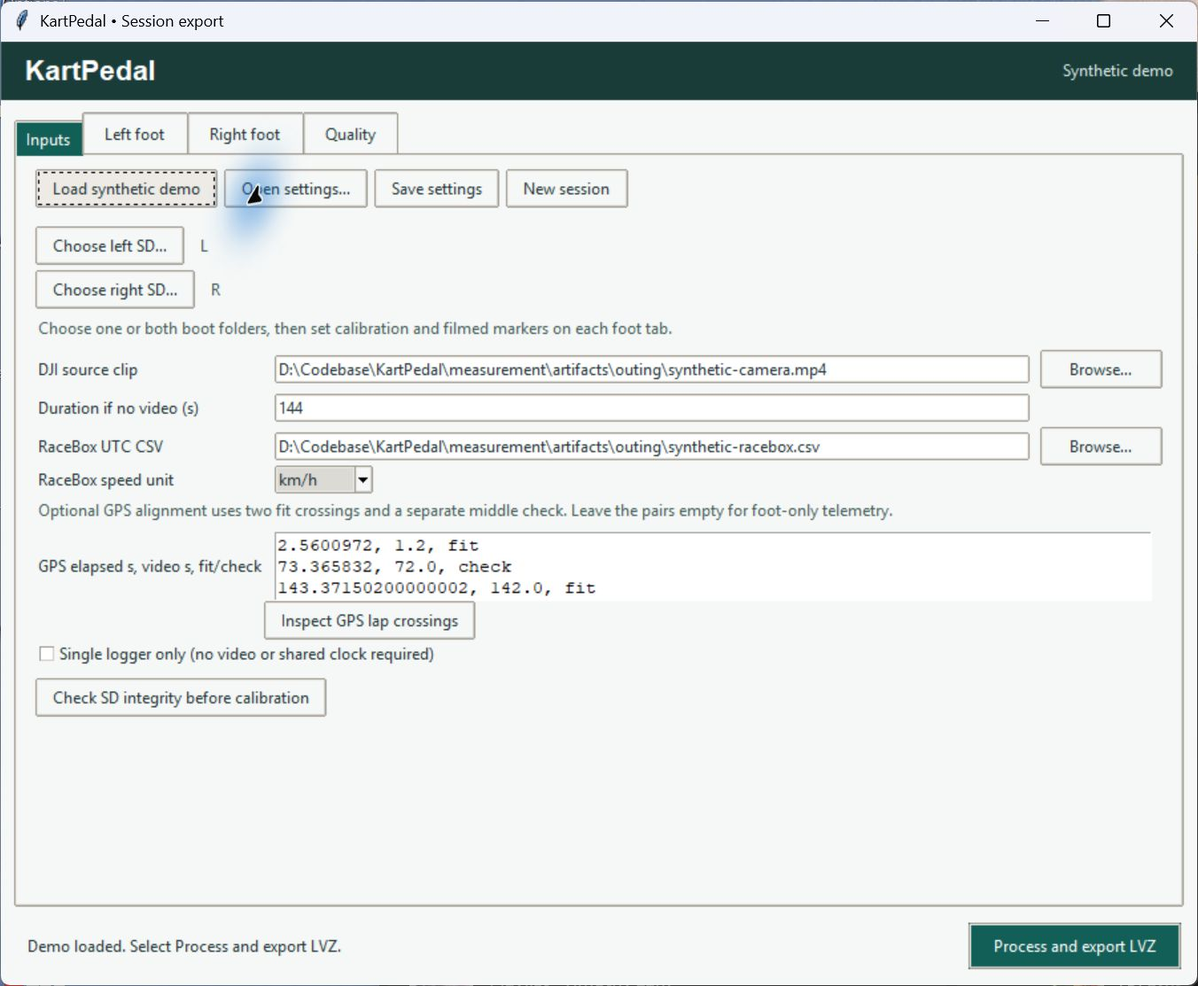
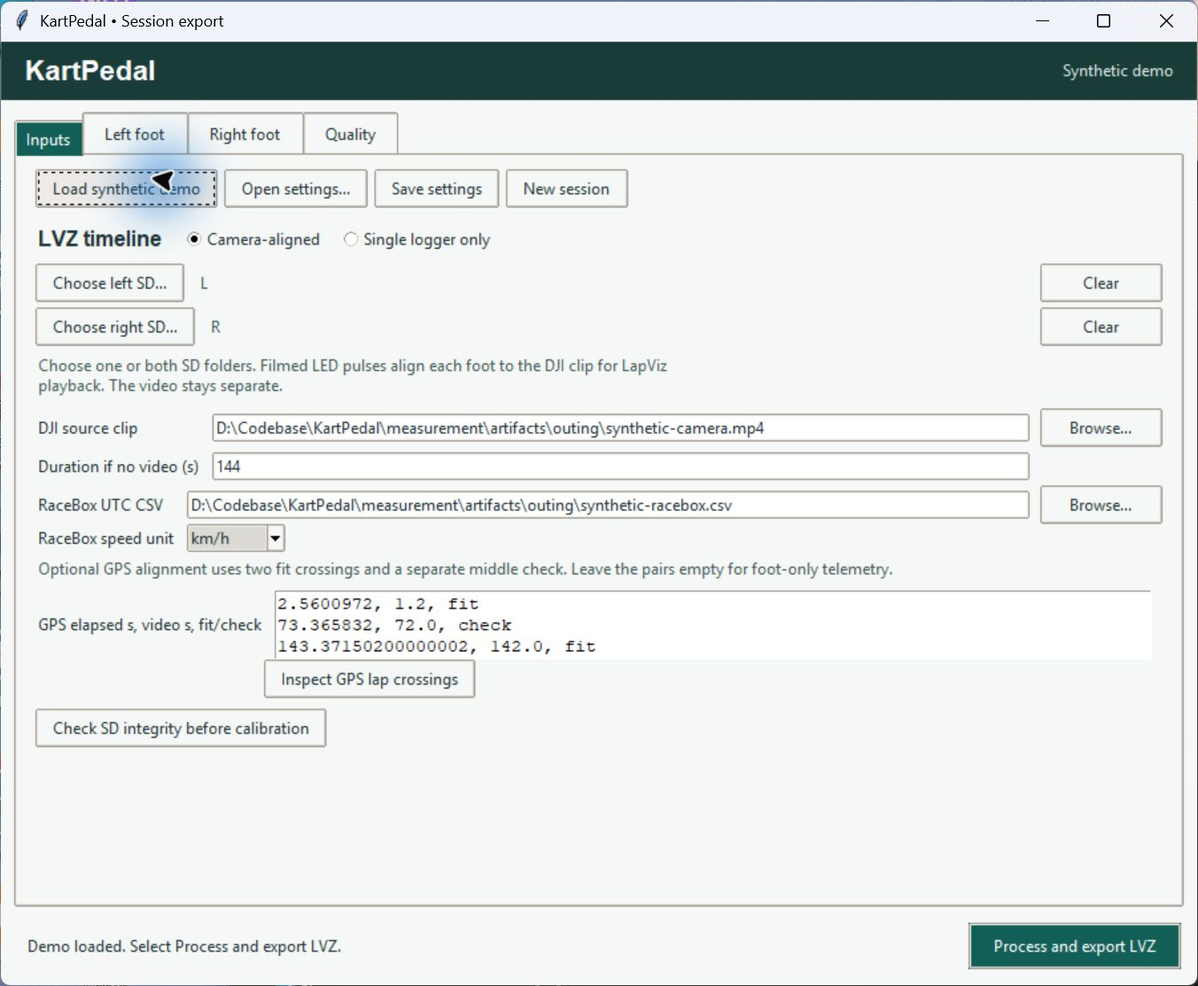
Verify interrupted SD recordings and clarify logger-only export

Changed region(s): [[0.0311, 0.1222, 0.963, 0.7637], [0.3107, 0.2138, 0.4038, 0.2749], [0.9941, 0.0916, 1.0, 0.1527]]

diff --git a/measurement/app.py b/measurement/app.py
@@ -98,26 +98,34 @@ class Leg:
         entry(p,'Saved profile (optional)',self.profile,4)
         ttk.Button(p,text='Choose profile…',command=lambda:choose(self.profile.set,[('Calibration profile','*.json')])).grid(row=4,column=2)
         explain(p,'Enter a neutral hold, then rock shoe and shin together. Mark the press direction within that rocking interval. With a matching saved profile, only fresh neutral times are required.',5)
-        self.markers=tk.Text(p,height=4,width=36)
-        ttk.Label(p,text='Marker ID, video seconds, fit/check').grid(row=6,column=0,sticky='w')
-        self.markers.grid(row=6,column=1,columnspan=2,sticky='ew',padx=8)
-        explain(p,'For manual timing enter one pulse per line, e.g. 1, 2.12, fit. Fit the first and last, and mark a middle pulse as check. For automatic timing select the LED on a frame.',7)
-        ttk.Checkbutton(p,text='Detect filmed pulses',variable=self.auto).grid(row=8,column=0,sticky='w')
-        ttk.Entry(p,textvariable=self.roi).grid(row=8,column=1,sticky='ew',padx=8)
-        ttk.Button(p,text='Select LED on frame…',command=safe(self.pick_roi)).grid(row=8,column=2)
-        entry(p,'Pulse IDs in clip (optional)',self.ids,9)
+        sync=self.sync_panel=ttk.Frame(p);sync.grid(row=6,column=0,columnspan=3,sticky='ew')
+        sync.columnconfigure(1,weight=1)
+        self.markers=tk.Text(sync,height=4,width=36)
+        ttk.Label(sync,text='Marker ID, video seconds, fit/check').grid(row=0,column=0,sticky='w')
+        self.markers.grid(row=0,column=1,columnspan=2,sticky='ew',padx=8)
+        explain(sync,'For manual timing enter one pulse per line, e.g. 1, 2.12, fit. Fit the first and last, and mark a middle pulse as check. For automatic timing select the LED on a frame.',1)
+        ttk.Checkbutton(sync,text='Detect filmed pulses',variable=self.auto).grid(row=2,column=0,sticky='w')
+        ttk.Entry(sync,textvariable=self.roi).grid(row=2,column=1,sticky='ew',padx=8)
+        ttk.Button(sync,text='Select LED on frame…',command=safe(self.pick_roi)).grid(row=2,column=2)
+        entry(sync,'Pulse IDs in clip (optional)',self.ids,3)
         entry(p,'Onset °, return °, dwell s',self.thresholds,10)
     def import_folder(self,folder):
         p=Path(folder)
         if not (p/'meta.json').exists():raise ValueError('Open the boot/session folder containing meta.json under the device folder on the SD card.')
         m=json.loads((p/'meta.json').read_text())
         if m['side']!=self.side:raise ValueError(f"This is the {m['side']} logger. Select its matching tab.")
-        edges=logged_edges(p)
+        # Preview is optional. The integrity check must remain available for a torn card.
+        try:
+            edges=logged_edges(p)
+            marker_note='LED rises in logger seconds: '+', '.join(f'{i} = {t:.2f}' for i,t in edges[:12]) if edges else 'No LED rises found.'
+        except (OSError,ValueError):
+            edges=[]
+            marker_note='Cannot read the LED events. Use Check SD integrity before calibration.'
         if self.app.synthetic and not m['device_id'].startswith('synthetic-'):
             self.app.assign({})
         elif self.folder.get() and Path(self.folder.get()).resolve()!=p.resolve():
             self.load({})
-        self.folder.set(str(p));self.note.set(m['device_id']+'  •  LED rise times on logger  '+', '.join(f'{i} = {t:.2f} s' for i,t in edges[:12]))
+        self.folder.set(str(p));self.note.set(m['device_id']+'  •  '+marker_note)
         self.app.clear_results()
         if not m['device_id'].startswith('synthetic-'):
             self.app.synthetic=False;self.app.context.set('Recording session')
@@ -158,7 +166,10 @@ class Leg:
         v=dict(directory=self.folder.get(),windows=windows,window_clock=self.frame.get(),
                markers={},event_thresholds=numbers(self.thresholds.get()))
         if self.profile.get():v['profile']=self.profile.get()
-        if device_only:return v
+        if device_only:
+            if self.frame.get()!='Logger seconds':
+                raise ValueError(f'{self.side} foot: choose Logger seconds and enter intervals measured on that logger.')
+            return v
         if self.auto.get():
             v.update(auto_led=True,led_roi=numbers(self.roi.get()))
             if len(v['led_roi'])!=4:raise ValueError(f'Select the {self.side} LED rectangle')
@@ -228,27 +239,38 @@ class App:
         actions=ttk.Frame(p);actions.grid(row=0,column=0,columnspan=3,sticky='ew',pady=(0,12))
         for name,fn in [('Load synthetic demo',lambda:self.load(HERE/'artifacts/outing/job.json')),('Open settings…',lambda:choose(lambda f:self.load(Path(f)),[('Session settings','*.json')])),('Save settings',self.persist),('New session',lambda:self.assign({}))]:
             ttk.Button(actions,text=name,command=safe(fn)).pack(side='left',padx=(0,5))
-        self.sources={}
+        modes=ttk.Frame(p)
+        modes.grid(row=1,column=0,columnspan=3,sticky='w',pady=(0,5))
+        ttk.Label(modes,text='LVZ timeline',style='Heading.TLabel').pack(side='left',padx=(0,14))
+        for label,mode in [('Camera-aligned',False),('Single logger only',True)]:
+            ttk.Radiobutton(modes,text=label,variable=self.device_only,value=mode).pack(side='left',padx=(0,12))
+        self.sources={};self.remove_source={}
         for index,side in enumerate(('L','R')):
             name='Left' if side=='L' else 'Right'
             row=ttk.Frame(p)
-            row.grid(row=index+1,column=0,columnspan=3,sticky='ew',pady=2)
+            row.grid(row=index+2,column=0,columnspan=3,sticky='ew',pady=2)
             ttk.Button(row,text=f'Choose {name.lower()} SD…',command=safe(lambda s=side:choose(self.legs[s].import_folder,'folder'))).pack(side='left')
             label=ttk.Label(row,text=f'{name} foot · no folder selected',style='Hint.TLabel')
             label.pack(side='left',padx=10);self.sources[side]=label
-        explain(p,'Choose one or both boot folders, then set calibration and filmed markers on each foot tab.',3)
-        inputs=ttk.Frame(p);inputs.grid(row=4,column=0,columnspan=3,sticky='ew')
+            button=ttk.Button(row,text='Clear',state='disabled',command=lambda s=side:self.clear_source(s))
+            button.pack(side='right');self.remove_source[side]=button
+        self.mode_hint=tk.StringVar()
+        ttk.Label(p,textvariable=self.mode_hint,style='Hint.TLabel',wraplength=525).grid(row=4,column=0,columnspan=3,sticky='w',pady=(3,8))
+        inputs=ttk.Frame(p);inputs.grid(row=5,column=0,columnspan=3,sticky='ew')
         inputs.columnconfigure(1,weight=1);p=inputs
-        entry(p,'DJI source clip',self.video,1);ttk.Button(p,text='Browse…',command=lambda:choose(self.video.set,[('Video','*.mp4 *.mov *.mkv')])).grid(row=1,column=2)
-        entry(p,'Duration if no video (s)',self.duration,2)
+        camera=self.camera_inputs=ttk.Frame(p);camera.grid(row=1,column=0,columnspan=3,sticky='ew')
+        camera.columnconfigure(1,weight=1)
+        entry(camera,'DJI source clip',self.video,0);ttk.Button(camera,text='Browse…',command=lambda:choose(self.video.set,[('Video','*.mp4 *.mov *.mkv')])).grid(row=0,column=2)
+        entry(camera,'Duration if no video (s)',self.duration,1)
         entry(p,'RaceBox UTC CSV',self.gps,3);ttk.Button(p,text='Browse…',command=lambda:choose(self.gps.set,[('RaceBox CSV','*.csv')])).grid(row=3,column=2)
         ttk.Label(p,text='RaceBox speed unit').grid(row=4,column=0,sticky='w')
         ttk.Combobox(p,textvariable=self.unit,values=['km/h','mph','m/s'],state='readonly',width=9).grid(row=4,column=1,sticky='w',padx=8)
-        explain(p,'Optional GPS alignment uses two fit crossings and a separate middle check. Leave the pairs empty for foot-only telemetry.',5)
-        ttk.Label(p,text='GPS elapsed s, video s, fit/check').grid(row=6,column=0,sticky='w')
-        self.gpsanchors=tk.Text(p,height=3,width=35);self.gpsanchors.grid(row=6,column=1,columnspan=2,sticky='ew',padx=8)
-        ttk.Button(p,text='Inspect GPS lap crossings',command=safe(self.crossings)).grid(row=7,column=1,sticky='w')
-        ttk.Checkbutton(p,text='Single logger only (no video or shared clock required)',variable=self.device_only).grid(row=9,column=0,columnspan=3,sticky='w')
+        gps=self.crossing_inputs=ttk.Frame(p);gps.grid(row=5,column=0,columnspan=3,sticky='ew')
+        gps.columnconfigure(1,weight=1)
+        explain(gps,'Optional GPS alignment uses two fit crossings and a separate middle check. Leave the pairs empty for foot-only telemetry.',0)
+        ttk.Label(gps,text='GPS elapsed s, video s, fit/check').grid(row=1,column=0,sticky='w')
+        self.gpsanchors=tk.Text(gps,height=3,width=35);self.gpsanchors.grid(row=1,column=1,columnspan=2,sticky='ew',padx=8)
+        ttk.Button(gps,text='Inspect GPS lap crossings',command=safe(self.crossings)).grid(row=2,column=1,sticky='w')
         ttk.Button(p,text='Check SD integrity before calibration',command=safe(self.inspect)).grid(row=10,column=0,columnspan=3,sticky='w',pady=8)
         self.legs={s:Leg(self,s) for s in 'LR'}
         for s,leg in self.legs.items():
@@ -274,11 +296,34 @@ class App:
         self.status=tk.StringVar(value='Load the demo or choose an SD recording.')
         self.status_label=ttk.Label(bottom,textvariable=self.status,wraplength=350)
         self.status_label.pack(side='left',padx=6)
-        self.root.after(80,self.poll)
+        self.device_only.trace_add('write',self.update_mode);self.update_mode()
+        self.poll_timer=self.root.after(80,self.poll)
+        root.bind('<Destroy>',self.cancel_poll,add=True)
+
+    def cancel_poll(self,event):
+        if event.widget==self.root:self.root.after_cancel(self.poll_timer)
+
+    def update_mode(self,*_):
+        logger_only=self.device_only.get()
+        for panel in (self.camera_inputs,self.crossing_inputs,*(leg.sync_panel for leg in self.legs.values())):
+            if logger_only:panel.grid_remove()
+            else:panel.grid()
+        self.mode_hint.set('Choose one SD folder. The LVZ starts at the first logger sample. An optional RaceBox CSV is checked separately.'
+                           if logger_only else 'Choose one or both SD folders. Filmed LED pulses align each foot to the DJI clip for LapViz playback. The video stays separate.')
+        self.clear_results()
+        selected=sum(bool(leg.folder.get()) for leg in self.legs.values())
+        if logger_only and selected>1:self.status.set('Clear one SD selection to export a single foot.')
+        elif selected:self.status.set('Review calibration on the selected foot tabs, then export.')
+        else:self.status.set('Load the demo or choose an SD recording.')
+
+    def clear_source(self,side):
+        self.legs[side].load({})
+        self.clear_results();self.status.set(f'{side} foot removed from this session.')
 
     def source_changed(self,side):
         path=self.legs[side].folder.get()
         self.sources[side].configure(text=Path(path).name if path else 'No folder selected')
+        self.remove_source[side].state(['!disabled' if path else 'disabled'])
 
     def clear_results(self):
         self.last_out=None;self.open_folder.state(['disabled'])
@@ -299,21 +344,26 @@ class App:
             if lap!=last:data.append(f'{dt.isoformat()}    {t:.3f} s    lap {lap}');last=lap
         messagebox.showinfo('RaceBox crossing candidates','Match visible track crossings independently.\n\n'+'\n'.join(data[:30]))
     def value(self):
-        j=dict(legs={},synthetic=self.synthetic,device_only=self.device_only.get())
+        device_only=self.device_only.get()
+        if device_only and all(leg.folder.get() for leg in self.legs.values()):
+            self.tabs.select(self.hosts[self.inputs])
+            raise ValueError('Single logger only uses one foot. Clear the other SD selection on Inputs.')
+        j=dict(legs={},synthetic=self.synthetic,device_only=device_only)
         for s,obj in self.legs.items():
             try:v=obj.value(self.device_only.get())
             except ValueError:
                 self.tabs.select(self.hosts[obj.panel])
                 raise
             if v:j['legs'][s]=v
-        if self.video.get():j['video']=self.video.get()
-        if self.duration.get():
+        if not device_only and self.video.get():j['video']=self.video.get()
+        if not device_only and self.duration.get():
             try:j['duration']=numeric_field(self.duration.get(),'Duration')
             except ValueError:
                 self.tabs.select(self.hosts[self.inputs]);raise
         if self.gps.get():
             a=[]
-            for i,line in enumerate(self.gpsanchors.get('1.0','end').strip().splitlines(),1):
+            lines=[] if device_only else self.gpsanchors.get('1.0','end').strip().splitlines()
+            for i,line in enumerate(lines,1):
                 fields=[v.strip() for v in line.split(',')]
                 try:
                     if len(fields)!=3 or fields[2] not in ('fit','check'):
@@ -350,8 +400,13 @@ class App:
                     for s,folder in sources.items():
                         self.bus.put(('progress',f'{s} • Checking journal, CRCs and sequence continuity'))
                         qc=verify_raw(folder,Path(td)/s)
+                        side=json.loads((Path(td)/s/'meta.json').read_text(encoding='utf8'))['side']
+                        if side!=s:raise ValueError(f'The {s} foot selection contains the {side} logger. Choose the matching foot tab.')
                         for st in qc['streams']:
-                            self.bus.put(('progress',f"{st['file']}: {st['count']} verified records, {st['known_lost']} known losses, {st['clipped']} clipped"))
+                            rate=st['observed_hz'];fraction=st['known_fresh_fraction']
+                            rate_text=f'{rate:.2f} Hz' if rate is not None else 'rate unavailable'
+                            fresh_text=f'{100*fraction:.3f}% of known frames' if fraction is not None else 'no committed frames'
+                            self.bus.put(('progress',f"{st['file']}: {st['count']} verified records, {rate_text}, {fresh_text}, {st['known_lost']} known losses, {st['clipped']} clipped"))
                         if qc['issues']:raise ValueError('; '.join(qc['issues'])+'. Keep the original card and inspect the recovered prefix.')
                 self.bus.put(('audit','SD integrity checked'))
             except Exception as e:self.bus.put(('error',str(e)))
@@ -403,7 +458,7 @@ class App:
                 self.last_out=val;self.open_folder.state(['!disabled'])
                 self.status.set('LVZ ready');self.line('Open this file in LapViz Studio:\n'+str(val/'KartPedal.lvz'))
             else:self.status.set('Processing stopped');self.line(str(val))
-        self.root.after(80,self.poll)
+        self.poll_timer=self.root.after(80,self.poll)
 if __name__=='__main__':
     root=tk.Tk();App(root);root.mainloop()
 

diff --git a/measurement/regression.py b/measurement/regression.py
@@ -7,7 +7,7 @@ import jsonschema
 import cv2
 import imageio_ffmpeg
 from PIL import Image
-from pipeline import HERE,PROJECT,run,save,digest
+from pipeline import HERE,PROJECT,run,save,digest,verify_raw
 from engine import clock_fit,Detector,AXES
 from racebox import records,gps_export
 from acceptance import score
@@ -121,6 +121,29 @@ class Regression(unittest.TestCase):
         j=short_job();j['legs']['R']['directory']=str(p)
         with self.assertRaisesRegex(ValueError,'CRC'):run(j,SOURCE,self.work/'damaged-out',lambda _:None)
         self.assertFalse((self.work/'damaged-out').exists())
+    def test_closed_empty_or_partial_logger(self):
+        folder=self.work/'empty-logger';folder.mkdir()
+        shutil.copyfile(SOURCE/'R/meta.json',folder/'meta.json')
+        (folder/'events.jsonl').write_bytes(b'')
+        close=dict(type='close',t_us=1000000,reason='user',events_end=0,streams=[])
+        def write_journal(lines):
+            (folder/'blocks.jsonl').write_bytes(b''.join((json.dumps(x)+'\n').encode() for x in lines))
+        write_journal([close])
+        qc=verify_raw(folder,self.work/'empty-audit')
+        self.assertEqual(set(qc['issues']),{'No committed shoe IMU samples','No committed shin IMU samples'})
+        name='imu_shoe_e000000.bin'
+        with (SOURCE/'R'/name).open('rb') as f:payload=f.read(78)
+        (folder/name).write_bytes(payload[:48])
+        close['streams']=[dict(file=name,end_offset=48,record_count=0)]
+        write_journal([close])
+        qc=verify_raw(folder,self.work/'header-only-audit')
+        self.assertIn('No committed shoe IMU samples',qc['issues'])
+        (folder/name).write_bytes(payload)
+        close['streams'][0].update(end_offset=78,record_count=1)
+        write_journal([dict(type='block',file=name,offset=48,length=30,count=1,events_end=0,crc32=zlib.crc32(payload[48:])),close])
+        qc=verify_raw(folder,self.work/'partial-audit')
+        self.assertEqual(qc['issues'],['No committed shin IMU samples'])
+        self.assertEqual(qc['streams'][0]['count'],1)
     def test_perturbed_raw_and_missing_side(self):
         root=self.work/'gyro';root.mkdir();p,_=changed_session(root)
         j=short_job();j['legs']['R']['directory']=str(p)
@@ -144,6 +167,24 @@ class Regression(unittest.TestCase):
         self.assertIsNone(q['gps']);self.assertIn('separately',q['warnings'][0])
         j['legs']['R']['profile']=str(FINAL/'L-profile.json')
         with self.assertRaisesRegex(ValueError,'different device'):run(j,SOURCE,self.work/'wrong-prof',lambda _:None)
+    def test_gui_inspects_interrupted_card(self):
+        folder=self.work/'interrupted-card';shutil.copytree(SOURCE/'R',folder)
+        events=folder/'events.jsonl'
+        with events.open('ab') as f:f.write(b'{"type":"marker"')
+        original=digest(events)
+        root=desktop.tk.Tk();root.withdraw()
+        try:
+            app=desktop.App(root);app.legs['R'].import_folder(folder)
+            self.assertEqual(app.legs['R'].folder.get(),str(folder))
+            self.assertIn('Check SD integrity',app.legs['R'].note.get())
+            self.assertEqual(app.legs['R'].markers.get('1.0','end').strip(),'')
+            app.inspect();deadline=time.monotonic()+30
+            while app.busy and time.monotonic()<deadline:root.update();time.sleep(.015)
+            self.assertEqual(app.status.get(),'Processing stopped')
+            self.assertIn('uncommitted events tail',app.log.get('1.0','end'))
+            self.assertIsNone(app.last_out);self.assertEqual(digest(events),original)
+        finally:root.destroy()
+
     def test_real_gui(self):
         desktop.STATE=self.work/'ui-state';r=desktop.tk.Tk();r.withdraw()
         try:
@@ -153,6 +194,22 @@ class Regression(unittest.TestCase):
             app.load(SOURCE/'job.json')
             self.assertEqual(app.context.get(),'Synthetic demo')
             self.assertEqual(app.value()['legs']['L']['windows'],load(SOURCE/'job.json')['legs']['L']['windows'])
+            camera_job=app.value()
+            app.device_only.set(True);app.btn.invoke()
+            self.assertIn('Clear the other SD',app.status.get())
+            self.assertEqual(app.camera_inputs.winfo_manager(),'')
+            app.device_only.set(False)
+            self.assertEqual(app.value(),camera_job)
+            app.device_only.set(True);app.remove_source['L'].invoke()
+            app.btn.invoke();end=time.monotonic()+45
+            while app.busy and time.monotonic()<end:r.update();time.sleep(.015)
+            self.assertIsNotNone(app.last_out,app.log.get('1.0','end'))
+            logger_settings=load(app.last_out/'settings.json')
+            self.assertNotIn('video',logger_settings);self.assertNotIn('duration',logger_settings)
+            self.assertEqual(logger_settings['gps']['anchors'],[])
+            self.assertEqual(lvz.read(app.last_out/'KartPedal.lvz').manifest['session']['clock'],'device')
+            self.assertEqual(app.summary.item(app.summary.get_children()[0],'values')[-1],'Logger only')
+            app.load(SOURCE/'job.json')
             app.legs['L'].times[0].set('invalid');app.btn.invoke()
             self.assertIn('Still start',app.status.get())
             self.assertEqual(app.tabs.select(),str(app.hosts[app.legs['L'].panel]))
@@ -168,6 +225,10 @@ class Regression(unittest.TestCase):
             self.assertEqual(len(app.summary.get_children()),2)
             self.assertIn('ms uncertainty',app.summary.item(app.summary.get_children()[0],'values')[-1])
             self.assertEqual((app.last_out/'R-motion.f32').read_bytes(),(FINAL/'R-motion.f32').read_bytes())
+            with ZipFile(app.last_out/'KartPedal.lvz') as actual, ZipFile(FINAL/'KartPedal.lvz') as expected:
+                self.assertEqual(set(actual.namelist()),set(expected.namelist()))
+                for member in expected.namelist():
+                    self.assertEqual(actual.read(member),expected.read(member),member)
             self.assertEqual(len(list((desktop.STATE/'devices').glob('*.json'))),2)
             self.assertIn('residual',app.log.get('1.0','end'))
             app.legs['L'].auto.set(False);app.legs['L'].markers.delete('1.0','end');app.legs['L'].markers.insert('end','missing, 1, fit')

diff --git a/measurement/markers.py b/measurement/markers.py
@@ -8,7 +8,12 @@ def logged_edges(folder):
         result=[]
         for line in f:
             e=json.loads(line)
-            if e.get('type')=='marker' and e.get('edge')=='rise':result.append((str(e['marker_id']),e['t_us']/1e6))
+            if not isinstance(e,dict):
+                raise ValueError('Expected an event object in events.jsonl')
+            if e.get('type')=='marker' and e.get('edge')=='rise':
+                if not isinstance(e.get('t_us'),int) or not isinstance(e.get('marker_id'),(str,int)):
+                    raise ValueError('LED marker is missing its timestamp or ID')
+                result.append((str(e['marker_id']),e['t_us']/1e6))
         return result
 def detect(clip,frame_index,roi,ids):
     x,y,w,h=map(int,roi)

diff --git a/docs/TROUBLESHOOTING.md b/docs/TROUBLESHOOTING.md
@@ -18,9 +18,9 @@ Start at the first unexpected result. Preserve the original files and the exact 
 |---|---|
 | Launcher exits or a module is missing | Run the Python/Tk and Node checks in [Quick start](QUICK_START.md). Install the listed requirements into the project environment and reopen the launcher. |
 | Folder rejected or side mismatch | On the correct foot tab choose the boot directory containing `meta.json`, `blocks.jsonl` and the streams. Check device ID and side. Preserve the recorded metadata. |
-| Interrupted SD file or missing close | Use **Check SD integrity before calibration** or the QC command below on a copy. The decoder reports verified contiguous prefixes and discarded tails. A torn journal ends the scan. The measurement pipeline stops on integrity errors. Keep a healthy other leg as a separate single-side run. |
+| Interrupted SD file or missing close | Select the copied boot folder even if the LED preview cannot read the events. Run **Check SD integrity before calibration**. The decoder reports verified records and flags damaged or uncommitted tails. The measurement pipeline stops on integrity errors. A healthy opposite leg can be processed separately. |
 | Only one foot recorded | Start **New session**, select just the healthy foot and calibrate it. With its three filmed markers it can still align to the clip. The missing side has no LVZ channels. Both-foot overlap is unavailable. |
-| Forgot a marker or the LED detector found too few pulses | Check the LED rectangle and recorded IDs. Inspect the original frames. If the requisite pulses are visible, turn off automatic detection and enter their true times. Camera alignment requires two fit anchors and an interior check. Without them, select **Single logger only**, one SD folder, no video or GPS anchor pairs, and use logger-second calibration. Repeat separately for a second foot. |
+| Forgot a marker or the LED detector found too few pulses | Check the LED rectangle and recorded IDs. Inspect the original frames. If the requisite pulses are visible, turn off automatic detection and enter their true times. Camera alignment requires two fit anchors and an interior check. Without them, select **Single logger only**, keep one SD folder with **Clear**, and use logger-second calibration. The app omits the camera and GPS anchors from that export. Repeat separately for a second foot. |
 | DJI split the outing | Process one original clip at a time. Use only observed markers and GPS crossings for that clip. Choose the filmed subset of IDs. A clip without sufficient independent evidence has no accepted camera-aligned export. Filenames and nominal frame counts cannot recover the missing references. |
 | Missing RaceBox / UTC or units error | Omit RaceBox and export camera-aligned foot data alone. For a readable CSV with no crossing pairs, clear GPS anchors to keep GPS separate. For a malformed CSV, re-export supported UTC custom CSV or remove it. No GPS-derived speed, distance or lap comparison is available without aligned data. |
 | Neutral, hinge or profile rejected | Review the filmed neutral and positive-direction windows, time units and side. Secure the mount and recalibrate after a refit. Select fresh still data when reusing a profile. |
@@ -30,7 +30,7 @@ Start at the first unexpected result. Preserve the original files and the exact 
 
 ### Inspect a card before calibration
 
-This tested command reads the supplied right session. Replace the last argument with the **copied** physical boot directory when available. Exit 0 means the integrity scan succeeded. Exit 2 requests review, and exit 1 indicates an input or execution error.
+This recovery command reads the supplied right session. Replace the last argument with the **copied** physical boot directory when available. Exit 0 means its journal scan succeeded. Exit 2 requests review, and exit 1 indicates an input or execution error. Use the desktop integrity check for the first-leg bench gate. It also requires committed samples from both the shoe and shin.
 
 ~~~powershell
 node software-v18/kartpedal-v18-cli.mjs qc measurement/artifacts/outing/R

diff --git a/docs/HARDWARE_FIRST_TEST.md b/docs/HARDWARE_FIRST_TEST.md
@@ -11,7 +11,7 @@
 - [ ] For powered voltage measurements, select **DC V**, 20 V if manual. Black goes to GND, red to the labelled rail. Keep the red lead out of the current sockets. Never measure current across a rail or battery. Disconnect before moving wiring.
 - [ ] Back up the intended cards. Verify full capacity by write/read on the PC, then FAT32 and readback. Check which drive is selected before formatting. The adapter seller’s ≤2 GB claim remains an open question until the selected cards pass.
 
-The [illustrated V18 manual](../KartPedal_Master_Engineering_Report_V18_2026-11-26.html) includes the connector envelopes, soldering examples and power circuit.
+The owner's local copy of `KartPedal_Master_Engineering_Report_V18_2026-11-26.html` includes the original connector drawings, soldering examples and purchase evidence.
 
 ## 2 · Flash one bare controller over USB
 
@@ -25,6 +25,8 @@ Choose the side that fits best. If both fit equally, V18 suggests starting on th
 Use the full side directory in the upload command so the uploader gets the application, bootloader and partitions. The small application binary alone is insufficient for a blank board. [Build instructions and hashes](TEST_RESULTS.md)
 
 From PowerShell in KartPedal, with no battery or peripherals attached, list ports once unplugged and again after connecting the board. Choose the port that actually appeared. After delivery only, enter that port and the labelled side when prompted below.
+
+On a fresh checkout, run `python -B firmware/build.py --provision` first to download the local Arduino CLI and its board tools.
 
 ~~~powershell
 $cli = ".\firmware\.tools\arduino-cli.exe"
@@ -76,6 +78,8 @@ With the battery still isolated, enter USB maintenance and send `BENCH_RECORD`. 
 | Still stopping or ambiguous | Keep the unit stationary and off-body. The required deadline is 10 seconds. Treat failure to reach an identifiable terminal state as a failed gate. |
 
 Copy the boot folder and run **Check SD integrity before calibration**. Require ≥99.9% fresh expected frames per sensor at 100 Hz, all gaps accounted for, no unexplained resets or corrupted blocks, and evidence across two sensor-clock wraps. Inspect queue high-water, counts and stalls. Repeat safe cycles and qualify timeout/reset behavior off-body. A smoke readback alone cannot qualify combined logging.
+
+The desktop audit shows observed Hz and the fraction of known frames received per sensor. Unknown losses are outside that fraction. Compare committed counts with the expected recording duration at 100 Hz. In the logger's `summary.json`, `queue_high_water` is the maximum queued item count and `max_io_us` is the longest measured writer operation in microseconds.
 
 ## 5 · Battery, fit and the first real outing
 

diff --git a/docs/QUICK_START.md b/docs/QUICK_START.md
@@ -9,6 +9,8 @@
 
 ![Actual Inputs tab with the supplied recording loaded](images/desktop-inputs.jpg)
 
+For a first bench recording, select **Single logger only**, choose one SD folder and enter calibration intervals in **Logger seconds**. The LVZ uses that foot’s own clock. **Camera-aligned** adds the clip and marker controls for synchronized playback. Switching timelines keeps your camera entries in the open form.
+
 ## Files you will see
 
 | File in the new export | What to open it for |
@@ -23,6 +25,8 @@
 Only recorded sides get side files. The app saves each export under `measurement/user-data/exports/<run>/`. The separately rendered demonstration and its cut map are in the [prepared media folder](../measurement/artifacts/final/).
 
 ## Install on another Windows PC
+
+For a GitHub checkout, use Git for Windows with Git LFS and run `git lfs pull` from the project root. The full-length transparent demonstration is stored in LFS. The LVZ and short review MP4 are regular repository files.
 
 Keep the project folders together. Use 64-bit Python 3.12 with Tcl/Tk and Node.js on PATH. The release was exercised with Python 3.12.7 and Node 24.22.3. Python supplies the desktop and estimator. Node verifies the binary journal. The Python requirements include the FFmpeg used for video. [Python for Windows](https://www.python.org/downloads/windows/) · [Node.js](https://nodejs.org/en/download)
 

diff --git a/docs/TEST_RESULTS.md b/docs/TEST_RESULTS.md
@@ -2,6 +2,8 @@
 
 **27 November 2026 · Windows.** The release passed its software checks using synthetic SD recordings. The components are still in delivery. The next qualification run starts with one bare controller on USB.
 
+The public-release pass covers 17 regression tests. New cases exercise a torn event tail and closed logs with missing or empty sensor streams. The desktop test switches between logger and camera timelines, processes both, and compares every camera-aligned LVZ member with the reference.
+
 | Release check | Observed result |
 |---|---|
 | Fresh desktop environment and normal launch | Installed the project Python requirements into a fresh local environment. Launched **Start KartPedal.cmd**, clicked **Load synthetic demo** and **Process and export LVZ**, and saw **LVZ ready**. [Inputs](images/desktop-inputs.jpg) · [Quality](images/desktop-quality.jpg) |

diff --git a/README.md b/README.md
@@ -31,4 +31,4 @@ See when each foot moves through a corner. KartPedal takes the raw six-axis reco
 
 The angle is heel-supported ankle excursion in degrees. A driver can change effort while holding the same pose. Brake force, pedal travel and throttle position remain outside this measurement.
 
-The [original V18 build manual](KartPedal_Master_Engineering_Report_V18_2026-11-26.html) preserves the parts ledger, diagrams and physical acceptance criteria. Use the guides above for the compiled firmware and current software.
+The [hardware arrival guide](docs/HARDWARE_FIRST_TEST.md) contains the wiring and physical acceptance gates. The original illustrated V18 manual and purchase records are kept in the owner's local project folder.
